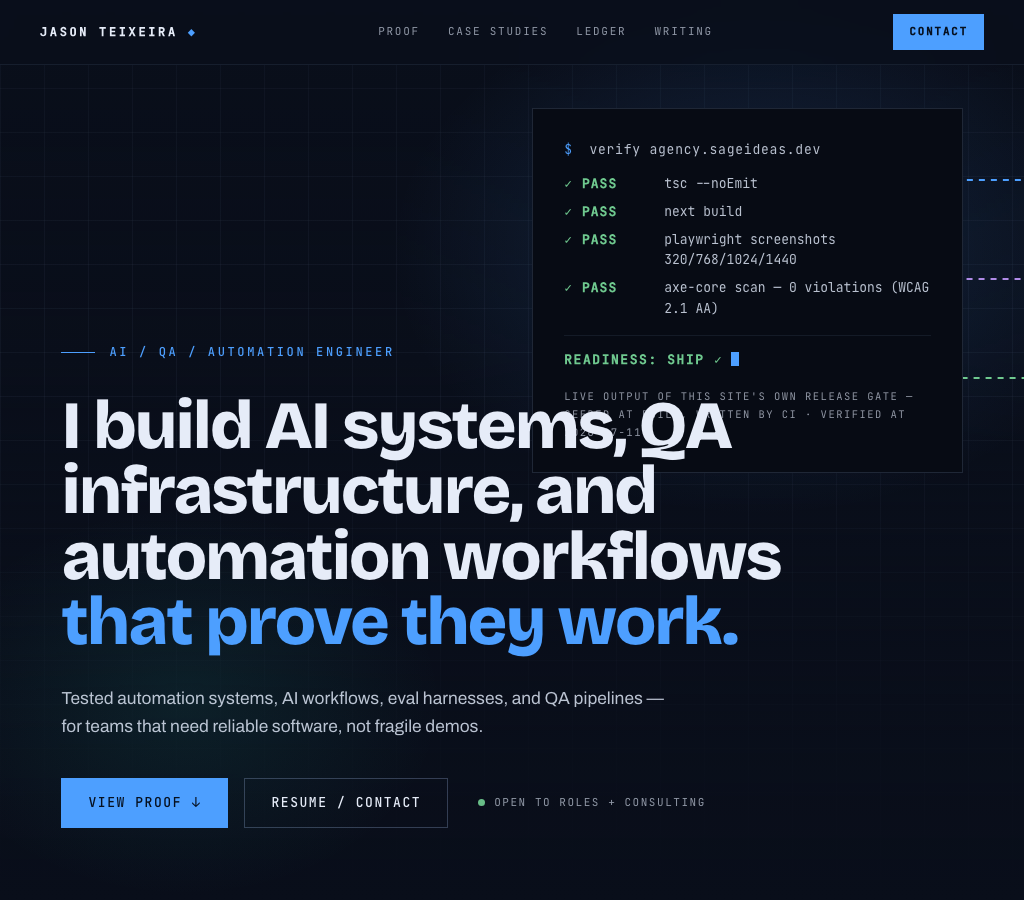
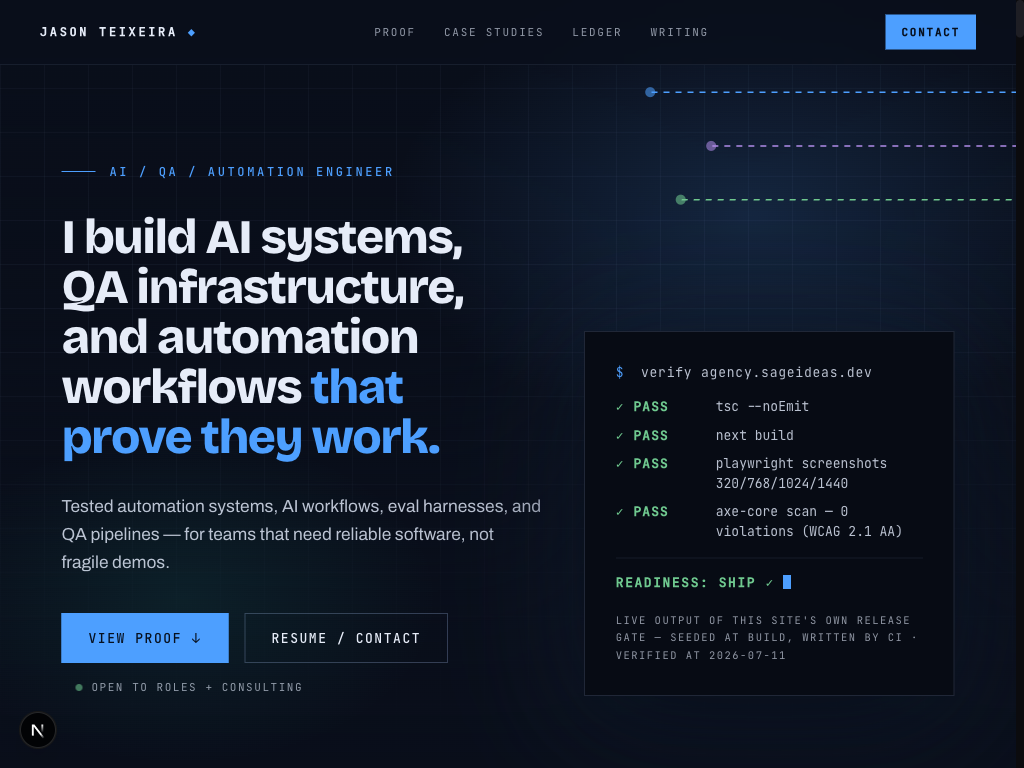
fix(agency): hero composition — two-column grid, no headline/terminal collision
- instrument moved from absolute overlay into a real grid column (1.3fr/1fr at ≥1024px)
- H1 rescaled (clamp 40-78px, lh 1.04) to live in its column instead of running under the panel
- terminal gets depth (drop-shadow glow); dashed data-lines repositioned above it
- verified at 1024/1440, screenshots refreshed

diff --git a/components/agency/hero.tsx b/components/agency/hero.tsx
@@ -18,49 +18,57 @@ export function Hero({ instrument }: HeroProps) {
       <div className="ag-hero-gridlines" aria-hidden="true" />
       <div className="ag-hero-glow" aria-hidden="true" />
       <svg className="ag-hero-lines" aria-hidden="true" focusable="false">
-        <line x1="56%" y1="20%" x2="100%" y2="20%" stroke="var(--acc-primary)" strokeWidth="2" className="ag-dashflow" />
-        <line x1="63%" y1="31%" x2="100%" y2="31%" stroke="var(--acc-ai)" strokeWidth="2" className="ag-dashflow" />
-        <line x1="59%" y1="42%" x2="100%" y2="42%" stroke="var(--acc-pass)" strokeWidth="2" className="ag-dashflow" />
-        <circle cx="56%" cy="20%" r="6" fill="var(--acc-primary)" className="ag-pulse" />
-        <circle cx="63%" cy="31%" r="6" fill="var(--acc-ai)" className="ag-pulse" />
-        <circle cx="59%" cy="42%" r="6" fill="var(--acc-pass)" className="ag-pulse" />
+        <line x1="64%" y1="12%" x2="100%" y2="12%" stroke="var(--acc-primary)" strokeWidth="1.5" className="ag-dashflow" />
+        <line x1="70%" y1="19%" x2="100%" y2="19%" stroke="var(--acc-ai)" strokeWidth="1.5" className="ag-dashflow" />
+        <line x1="67%" y1="26%" x2="100%" y2="26%" stroke="var(--acc-pass)" strokeWidth="1.5" className="ag-dashflow" />
+        <circle cx="64%" cy="12%" r="5" fill="var(--acc-primary)" className="ag-pulse" />
+        <circle cx="70%" cy="19%" r="5" fill="var(--acc-ai)" className="ag-pulse" />
+        <circle cx="67%" cy="26%" r="5" fill="var(--acc-pass)" className="ag-pulse" />
       </svg>
 
-      {instrument ? <div className="ag-hero-instrument">{instrument}</div> : null}
+      <div className="ag-hero-inner">
+        <div className="ag-hero-content">
+          <Reveal>
+            <p className="ag-kicker ag-hero-kicker">
+              <span className="ag-hero-kicker-rule" aria-hidden="true" />
+              AI / QA / AUTOMATION ENGINEER
+            </p>
+          </Reveal>
+          <Reveal delay={90}>
+            <h1 id="hero-heading" className="ag-hero-h1">
+              I build AI systems, QA infrastructure, and automation workflows{' '}
+              <em className="ag-hero-h1-em">that prove they work.</em>
+            </h1>
+          </Reveal>
+          <Reveal delay={180}>
+            <p className="ag-hero-sub">
+              Tested automation systems, AI workflows, eval harnesses, and QA pipelines — for
+              teams that need reliable software, not fragile demos.
+            </p>
+          </Reveal>
+          <Reveal delay={270}>
+            <div className="ag-hero-ctas">
+              <a href="#proof" className="ag-btn ag-btn--solid">
+                VIEW PROOF <span aria-hidden="true">↓</span>
+              </a>
+              <a href="#contact" className="ag-btn">
+                RESUME / CONTACT
+              </a>
+              <span className="ag-hero-status">
+                <span className="ag-hero-status-dot ag-pulse" aria-hidden="true" />
+                OPEN TO ROLES + CONSULTING
+              </span>
+            </div>
+          </Reveal>
+        </div>
 
-      <div className="ag-hero-content">
-        <Reveal>
-          <p className="ag-kicker ag-hero-kicker">
-            <span className="ag-hero-kicker-rule" aria-hidden="true" />
-            AI / QA / AUTOMATION ENGINEER
-          </p>
-        </Reveal>
-        <Reveal delay={90}>
-          <h1 id="hero-heading" className="ag-hero-h1">
-            I build AI systems, QA infrastructure, and automation workflows{' '}
-            <em className="ag-hero-h1-em">that prove they work.</em>
-          </h1>
-        </Reveal>
-        <Reveal delay={180}>
-          <p className="ag-hero-sub">
-            Tested automation systems, AI workflows, eval harnesses, and QA pipelines — for teams
-            that need reliable software, not fragile demos.
-          </p>
-        </Reveal>
-        <Reveal delay={270}>
-          <div className="ag-hero-ctas">
-            <a href="#proof" className="ag-btn ag-btn--solid">
-              VIEW PROOF <span aria-hidden="true">↓</span>
-            </a>
-            <a href="#contact" className="ag-btn">
-              RESUME / CONTACT
-            </a>
-            <span className="ag-hero-status">
-              <span className="ag-hero-status-dot ag-pulse" aria-hidden="true" />
-              OPEN TO ROLES + CONSULTING
-            </span>
-          </div>
-        </Reveal>
+        {instrument ? (
+          <Reveal delay={360} className="ag-hero-instrument-reveal">
+            <aside className="ag-hero-instrument" aria-label="Live release gate for this site">
+              {instrument}
+            </aside>
+          </Reveal>
+        ) : null}
       </div>
     </section>
   )

diff --git a/app/agency/sections.css b/app/agency/sections.css
@@ -137,21 +137,32 @@
   pointer-events: none;
 }
 
-.ag-hero-instrument {
-  position: absolute;
-  top: 12%;
-  right: var(--sect-x);
-  width: min(560px, 42vw);
-  z-index: 1;
+.ag-hero-inner {
+  position: relative;
+  z-index: 2;
+  display: grid;
+  grid-template-columns: minmax(0, 1fr);
+  gap: clamp(32px, 4vw, 72px);
+  align-items: end;
+}
+
+.ag-hero-instrument-reveal {
   display: none;
 }
 
+.ag-hero-instrument {
+  width: 100%;
+  max-width: 640px;
+  justify-self: end;
+  filter: drop-shadow(0 24px 60px rgba(7, 11, 20, 0.85))
+    drop-shadow(0 0 42px rgba(77, 159, 255, 0.09));
+}
+
 .ag-hero-content {
-  position: relative;
-  z-index: 2;
   display: flex;
   flex-direction: column;
   gap: clamp(20px, 3vw, 34px);
+  min-width: 0;
 }
 
 .ag-hero-kicker {
@@ -170,12 +181,11 @@
 
 .ag-hero-h1 {
   margin: 0;
-  font-size: var(--h1);
-  line-height: 0.97;
-  letter-spacing: -0.03em;
+  font-size: clamp(40px, 4.7vw, 78px);
+  line-height: 1.04;
+  letter-spacing: -0.032em;
   font-weight: 750;
   font-variation-settings: 'wdth' 118;
-  max-width: 1200px;
   text-wrap: balance;
 }
 
@@ -219,18 +229,17 @@
 }
 
 @media (min-width: 1024px) {
-  .ag-hero-instrument {
+  .ag-hero-inner {
+    grid-template-columns: minmax(0, 1.3fr) minmax(360px, 1fr);
+  }
+
+  .ag-hero-instrument-reveal {
     display: block;
+    min-width: 0;
   }
 
   .ag-hero-status {
     margin-left: 14px;
-  }
-}
-
-@media (min-width: 1440px) {
-  .ag-hero-instrument {
-    width: min(640px, 38vw);
   }
 }
 
